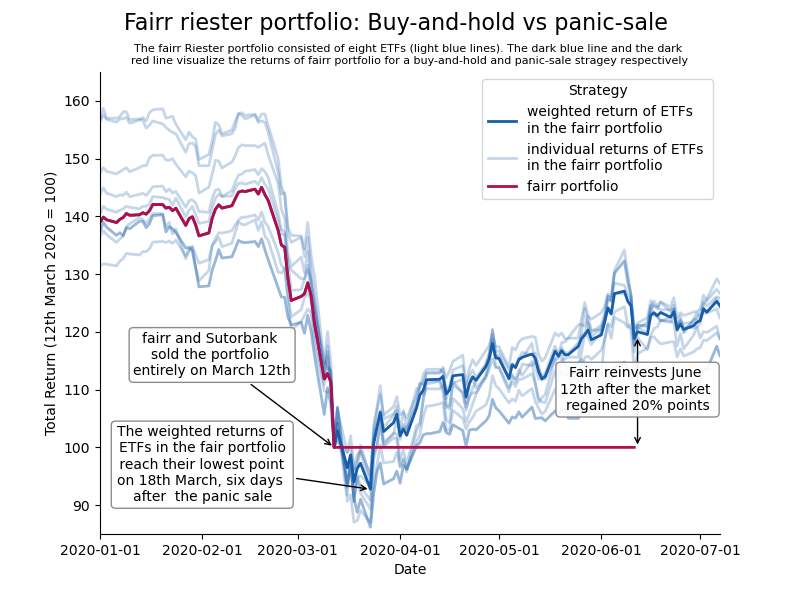
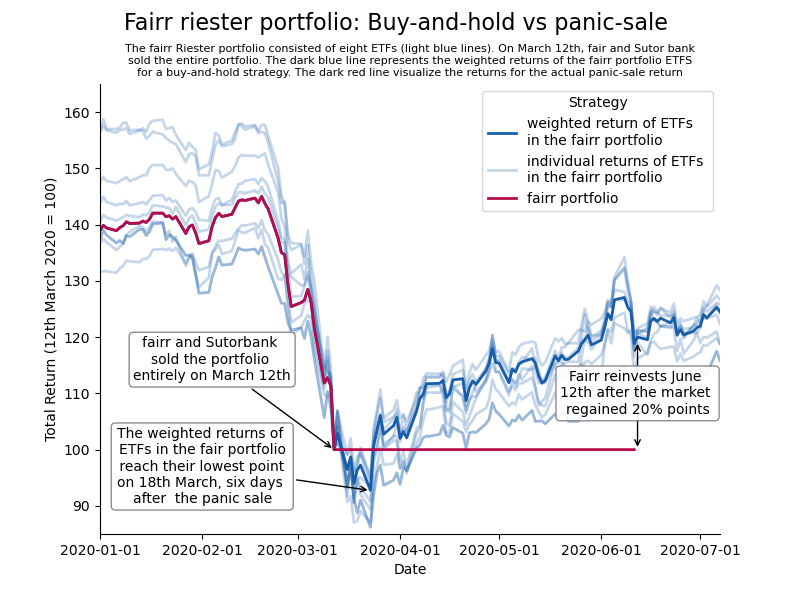
add plot note

Changed region(s): [[0.0312, 0.15, 0.9062, 0.87], [0.1562, 0.06, 0.875, 0.36]]

diff --git a/main.py b/main.py
@@ -129,11 +129,13 @@ plt.gca().xaxis.set_major_formatter(mdates.DateFormatter('%Y-%m-%d'))
 ax.xaxis.set_major_locator(MonthLocator())
 #plt.gcf().autofmt_xdate()
 #fig.tight_layout()
+fig.subplots_adjust(top=0.86)
 plt.legend(loc="upper right", title="Strategy", frameon=True)
 
 plt.suptitle("Fairr riester portfolio: Buy-and-hold vs panic-sale ", fontsize=16)
-ax.set_title('The fairr Riester portfolio consisted of eight ETFs (light blue lines). The dark blue line and the dark '
-             '\nred line visualize the returns of fairr portfolio for a buy-and-hold and panic-sale stragey respectively', fontsize = 8)
+ax.set_title('The fairr Riester portfolio consisted of eight ETFs (light blue lines). On March 12th, fair and Sutor bank'
+             '\nsold the entire portfolio. The dark blue line represents the weighted returns of the fairr portfolio ETFS'
+             '\nfor a buy-and-hold strategy. The dark red line visualize the returns for the actual panic-sale return', fontsize = 8)
 
 
 plt.show()
